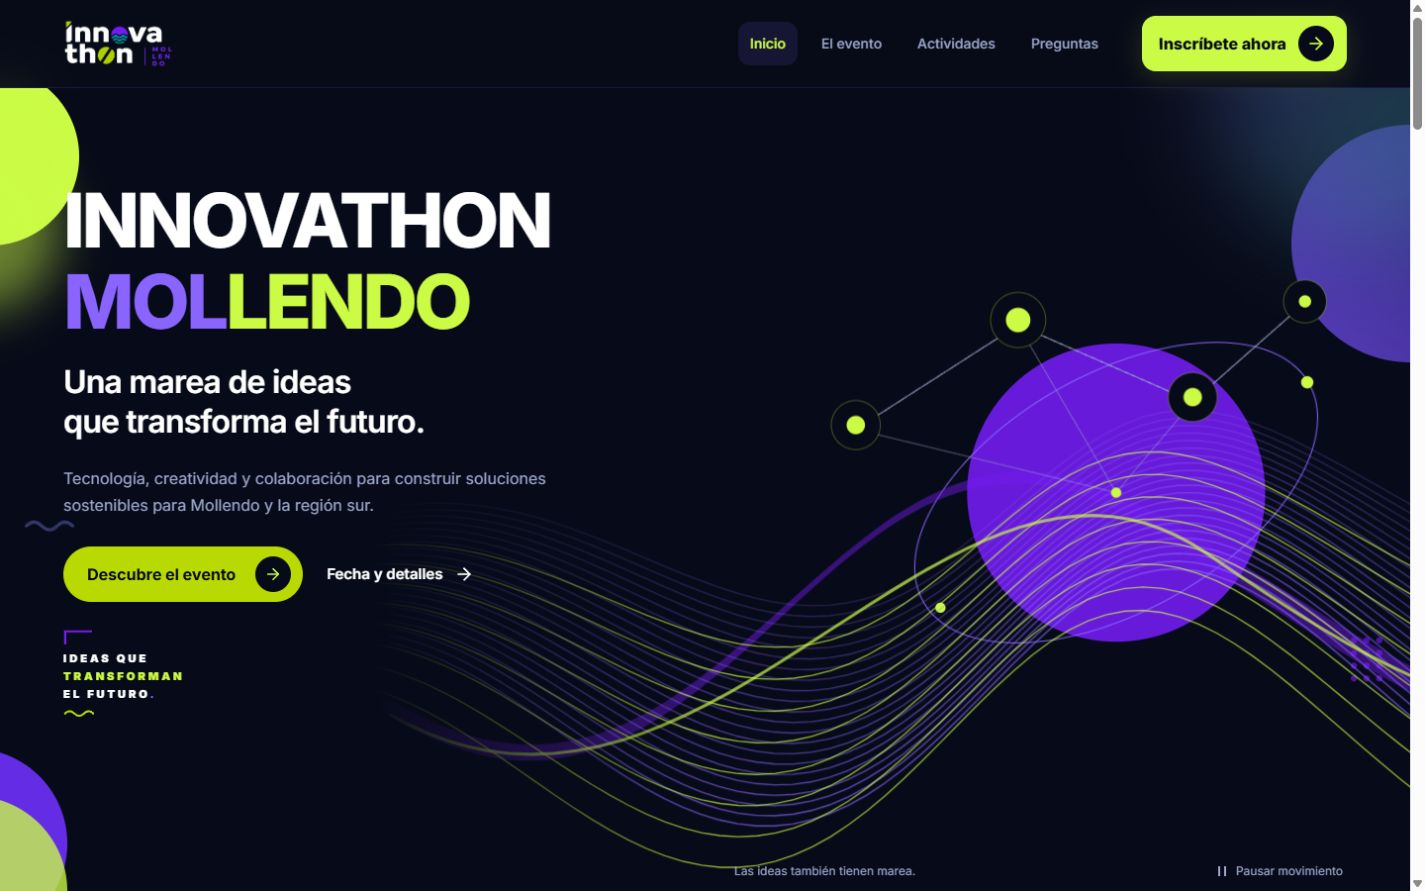
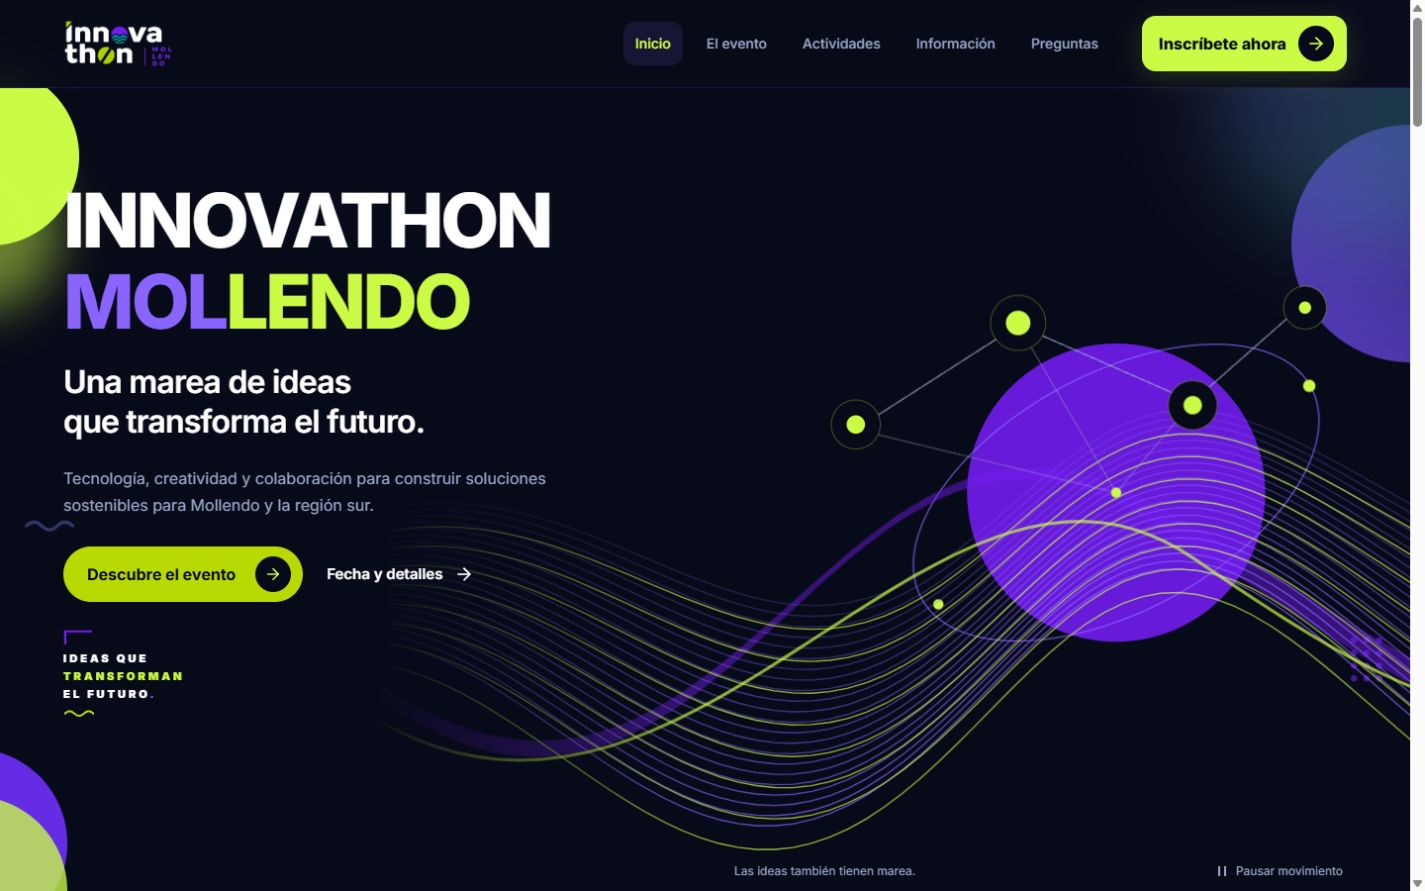
feat: add interactive Mollendo castle and information navigation

diff --git a/src/presentation/components/landing/CastleConstruction.jsx b/src/presentation/components/landing/CastleConstruction.jsx
@@ -1,0 +1,108 @@
+import { useEffect, useRef, useState } from 'react';
+import './castle-construction.css';
+
+const ART = `${import.meta.env.BASE_URL}assets/castillo-mollendo-construction.webp`;
+// Complementary masks follow the cliff, arcade, upper facade and tower.
+// Every pixel belongs to one piece, so the finished model has no seams.
+const PIECES = [
+  'polygon(0 64%, 43% 55%, 85% 57%, 100% 64%, 100% 100%, 0 100%)',
+  'polygon(0 43%, 43% 39%, 85% 40%, 100% 44%, 100% 64%, 85% 57%, 43% 55%, 0 64%)',
+  'polygon(0 30%, 36% 25%, 58% 25%, 100% 34%, 100% 44%, 85% 40%, 43% 39%, 0 43%)',
+  'polygon(0 0, 100% 0, 100% 34%, 58% 25%, 36% 25%, 0 30%)',
+];
+
+export function CastleConstruction() {
+  const rootRef = useRef(null);
+  const imageRef = useRef(null);
+  const replayRef = useRef(() => {});
+  const [building, setBuilding] = useState(false);
+  const [failed, setFailed] = useState(false);
+  const [expanded, setExpanded] = useState(false);
+  const [keyboard, setKeyboard] = useState(false);
+
+  useEffect(() => {
+    const root = rootRef.current;
+    const image = imageRef.current;
+    const reduced = window.matchMedia('(prefers-reduced-motion: reduce)');
+    const pieces = [...root.querySelectorAll('[data-castle-piece]')];
+    let animations = [];
+    let visible = false;
+    let started = false;
+    let loaded = image.complete && image.naturalWidth > 0;
+    let disposed = false;
+
+    const finish = () => {
+      animations.forEach((animation) => animation.cancel());
+      animations = [];
+      delete root.dataset.building;
+      if (!disposed) setBuilding(false);
+    };
+    const build = () => {
+      if (!loaded || animations.length || disposed) return;
+      started = true;
+      if (reduced.matches || !root.animate) return;
+      root.dataset.building = 'true';
+      setBuilding(true);
+      animations = pieces.map((piece, index) => piece.animate([
+        { opacity: 0, transform: `translate3d(0, ${index ? -32 : 24}px, 0)` },
+        { opacity: 1, transform: 'translate3d(0, 0, 0)' },
+      ], {
+        duration: 900,
+        delay: index * 650,
+        easing: 'cubic-bezier(.23, 1, .32, 1)',
+        fill: 'backwards',
+      }));
+      const current = animations;
+      Promise.allSettled(current.map((animation) => animation.finished)).then(() => {
+        if (!disposed && animations === current) finish();
+      });
+    };
+    const arrive = () => {
+      if (visible && loaded && !started && !document.hidden) build();
+    };
+    const onLoad = () => { loaded = true; arrive(); };
+    const onVisibility = () => {
+      animations.forEach((animation) => {
+        if (visible && !document.hidden) animation.play();
+        else animation.pause();
+      });
+      arrive();
+    };
+    const onPreference = () => { if (reduced.matches) finish(); };
+    const observer = 'IntersectionObserver' in window ? new IntersectionObserver(([entry]) => {
+      visible = entry.isIntersecting;
+      onVisibility();
+    }, { threshold: 0.35 }) : null;
+    replayRef.current = build;
+    image.addEventListener('load', onLoad);
+    document.addEventListener('visibilitychange', onVisibility);
+    reduced.addEventListener('change', onPreference);
+    observer?.observe(root);
+    return () => {
+      disposed = true;
+      finish();
+      observer?.disconnect();
+      image.removeEventListener('load', onLoad);
+      document.removeEventListener('visibilitychange', onVisibility);
+      reduced.removeEventListener('change', onPreference);
+      replayRef.current = () => {};
+    };
+  }, []);
+
+  return (
+    <figure className="castle-construction" ref={rootRef} data-failed={failed} data-expanded={expanded} data-keyboard={keyboard}>
+      <div className="castle-construction__stage">
+        <div className="castle-construction__model" onPointerEnter={() => setKeyboard(false)} role="img" aria-label="Ilustración interactiva del castillo de Mollendo, con fachada ocre, arcos, torre y acantilado. Sus capas se separan al pasar el cursor o activar el botón.">
+          {PIECES.map((clipPath, index) => <div key={clipPath} className={`castle-construction__layer castle-construction__layer--${index}`} aria-hidden="true"><div className="castle-construction__piece" data-castle-piece style={{ clipPath }}><img ref={index === 0 ? imageRef : undefined} src={ART} alt="" width="1254" height="1254" loading="lazy" decoding="async" onError={() => setFailed(true)} /></div></div>)}
+        </div>
+      </div>
+      <figcaption className="castle-construction__caption">
+        <p className="castle-construction__hint">Mollendo, pieza a pieza.<span>Pasa el cursor sobre el castillo.</span></p>
+        <div className="castle-construction__controls">
+          <button type="button" disabled={building || failed} aria-pressed={expanded} onClick={(event) => { setKeyboard(event.detail === 0); setExpanded((value) => !value); }} className="castle-toggle">{expanded ? 'Unir capas' : 'Separar capas'}</button>
+          <button type="button" disabled={building || failed} onClick={() => { setExpanded(false); replayRef.current(); }} className="castle-replay">{building ? 'Construyendo…' : 'Reconstruir'}<span aria-hidden="true">↻</span></button>
+        </div>
+      </figcaption>
+    </figure>
+  );
+}

diff --git a/src/presentation/components/landing/castle-construction.css b/src/presentation/components/landing/castle-construction.css
@@ -1,0 +1,44 @@
+.castle-construction { position: relative; width: 100%; max-width: 330px; margin: 16px auto 0; }
+.castle-construction__stage { padding-block: 44px 16px; }
+.castle-construction__model { position: relative; width: 100%; aspect-ratio: 1; }
+.castle-construction__layer, .castle-construction__piece { position: absolute; inset: 0; }
+.castle-construction__layer { transition: transform 400ms var(--landing-ease); }
+.castle-construction__piece img { display: block; width: 100%; height: 100%; object-fit: contain; }
+.castle-construction__caption { position: relative; text-align: center; font-size: .75rem; color: var(--landing-muted); }
+.castle-construction__hint { line-height: 1.5; }
+.castle-construction__hint span { display: none; margin-top: 4px; }
+.castle-construction__controls { display: flex; justify-content: center; align-items: center; flex-wrap: wrap; gap: 8px 16px; margin-top: 12px; }
+.castle-toggle, .castle-replay { display: inline-flex; align-items: center; justify-content: center; gap: 10px; min-height: 44px; padding: 8px 14px; color: var(--landing-lime); cursor: pointer; touch-action: manipulation; white-space: nowrap; }
+.castle-toggle { border: 1px solid var(--landing-line); border-radius: 12px; background: var(--landing-surface); transition: border-color 160ms var(--landing-ease); }
+.castle-toggle[aria-pressed="true"] { border-color: var(--landing-lime); }
+.castle-replay > span { font-size: 1.375rem; }
+.castle-toggle:disabled, .castle-replay:disabled { color: var(--landing-muted); cursor: default; }
+.castle-construction[data-failed="true"] .castle-construction__model { visibility: hidden; }
+.castle-construction[data-expanded="true"]:not([data-building]) .castle-construction__layer--0 { transform: translate3d(-3%, 5%, 0); }
+.castle-construction[data-expanded="true"]:not([data-building]) .castle-construction__layer--1 { transform: translate3d(-7%, -3%, 0); }
+.castle-construction[data-expanded="true"]:not([data-building]) .castle-construction__layer--2 { transform: translate3d(6%, -13%, 0); }
+.castle-construction[data-expanded="true"]:not([data-building]) .castle-construction__layer--3 { transform: translate3d(1%, -23%, 0); }
+.castle-construction[data-keyboard="true"] .castle-construction__layer { transition: none; }
+.landing-about__body { align-self: start; }
+@media (hover: hover) and (pointer: fine) {
+  .castle-construction__hint span { display: block; }
+  .castle-construction:not([data-building]):not([data-failed="true"]) .castle-construction__model:hover .castle-construction__layer--0 { transform: translate3d(-3%, 5%, 0); }
+  .castle-construction:not([data-building]):not([data-failed="true"]) .castle-construction__model:hover .castle-construction__layer--1 { transform: translate3d(-7%, -3%, 0); }
+  .castle-construction:not([data-building]):not([data-failed="true"]) .castle-construction__model:hover .castle-construction__layer--2 { transform: translate3d(6%, -13%, 0); }
+  .castle-construction:not([data-building]):not([data-failed="true"]) .castle-construction__model:hover .castle-construction__layer--3 { transform: translate3d(1%, -23%, 0); }
+  .castle-toggle:not(:disabled):hover { border-color: var(--landing-lime); }
+  .castle-replay:not(:disabled):hover { text-decoration: underline; text-underline-offset: 5px; }
+}
+@media (max-width: 899px) {
+  .castle-construction { max-width: 330px; }
+  .castle-construction__stage { padding-top: 64px; }
+}
+@media (max-width: 359px) {
+  .castle-construction__controls { gap: 8px; }
+  .castle-toggle, .castle-replay { padding-inline: 10px; }
+}
+@media (prefers-reduced-motion: reduce) {
+  .castle-replay { display: none; }
+  .castle-construction__layer { transition: none; }
+  .castle-construction__piece { opacity: 1; transform: none; }
+}

diff --git a/src/presentation/pages/HomePage.jsx b/src/presentation/pages/HomePage.jsx
@@ -6,6 +6,7 @@ import { useSeo } from '../hooks/useSeo';
 import { useLandingMotion } from '../hooks/useLandingMotion';
 import { RegistrationNavbar } from '../components/registration/RegistrationNavbar';
 import { TideScene } from '../components/landing/TideScene';
+import { CastleConstruction } from '../components/landing/CastleConstruction';
 import { EventFaq } from '../components/landing/EventFaq';
 import {
   SingleWave, ArrowRightIcon, CalendarIcon, MapPinIcon, CodeIcon,
@@ -70,7 +71,7 @@ export default function HomePage() {
         </section>
 
         <section id="evento" className="landing-section landing-container landing-about" aria-labelledby="about-title">
-          <div data-reveal><h2 id="about-title">¿Qué es<br />Innovathon Mollendo?</h2><SingleWave className="landing-about__wave" /></div>
+          <div className="landing-about__visual"><div data-reveal><h2 id="about-title">¿Qué es<br />Innovathon Mollendo?</h2><SingleWave className="landing-about__wave" /></div><CastleConstruction /></div>
           <div className="landing-about__body" data-reveal><p className="landing-lead">El futuro de nuestra ciudad también se construye desde aquí.</p><p>{LANDING.summary}</p><p>Conectamos distintas formas de pensar para abordar desafíos de nuestra comunidad. El mar, la historia portuaria y el talento local son el punto de partida.</p><div className="landing-about__signature"><span>Una ciudad.</span><span>Muchas perspectivas.</span><strong>Una marea de ideas.</strong></div></div>
         </section>
 

diff --git a/src/presentation/components/registration/RegistrationNavbar.jsx b/src/presentation/components/registration/RegistrationNavbar.jsx
@@ -7,7 +7,8 @@ import './event-navigation.css';
 
 const SECTIONS = [
   ['inicio', 'Inicio'], ['evento', 'El evento'],
-  ['actividades', 'Actividades'], ['preguntas', 'Preguntas'],
+  ['actividades', 'Actividades'], ['informacion', 'Información'],
+  ['preguntas', 'Preguntas'],
 ];
 
 export function RegistrationNavbar() {

diff --git a/docs/landing-informativa.md b/docs/landing-informativa.md
@@ -94,15 +94,17 @@ datos correspondientes de la página.
   botones con `aria-expanded`/`aria-controls` y paneles cerrados `inert` y ocultos
   para tecnologías de asistencia. Controles nuevos con altura mínima de 44 px.
 
-El navbar compartido incluye Inicio, El evento, Actividades y Preguntas, junto
+El navbar compartido incluye Inicio, El evento, Actividades, Información y Preguntas, junto
 al botón de inscripción. Reemplaza la barra secundaria de la landing. El menú móvil tiene
 botón de 44 px, nombre en español, estado expandido y Escape con retorno de foco.
 La altura medida del navbar establece el margen de los destinos por ancla.
-La cabecera se simplificó por solicitud del usuario: logo, cuatro enlaces y CTA
+La cabecera se simplificó por solicitud del usuario: logo, cinco enlaces y CTA
 en una sola fila en escritorio. Las demás secciones permanecen en el contenido.
 Inscripción destaca con un botón lima sólido de 56 px, «Inscríbete ahora», con
 flecha circular. En móvil, logo, botón compacto «Inscríbete» y menú también
 comparten una sola fila. La fecha sigue disponible en el Hero y en Información.
+«Información» abre `#informacion`, donde se muestran los datos esenciales,
+las bases y el reglamento, tanto desde Inicio como desde Inscripción.
 
 `RouteTransition.jsx` y `route-transition.css` conectan un layout con Outlet al
 data router de React Router. Los Link de cambio de ruta usan
@@ -130,6 +132,47 @@ prescripciones incompatibles de fonts, paletas, nuevo header, librerías GSAP o
 scroll controlado. No se simulan sorteos, mediciones ni validaciones.
 
 ## Verificaciones ejecutadas
+
+### Castillo interactivo en El evento
+
+La sección «¿Qué es Innovathon Mollendo?» incorpora, debajo de su título, una
+ilustración dimensional del castillo, generada a partir
+de la fotografía de referencia proporcionada por el usuario. Conserva su fachada
+ocre, arcadas, torre y base rocosa. Es una interpretación ilustrada de la
+referencia; no se presenta como fotografía ni modelo arquitectónico exacto.
+
+`CastleConstruction.jsx` ensambla cuatro máscaras complementarias de la misma
+imagen: acantilado, arcadas, fachada superior y torre. WAAPI anima únicamente
+opacidad y desplazamiento, durante 900 ms por pieza con intervalos de 650 ms;
+el conjunto termina en 2,85 segundos. Se inicia una vez al entrar en pantalla,
+después de cargar la imagen. El botón permite repetir la construcción.
+La construcción se pausa al salir de pantalla o al ocultar la pestaña.
+La preferencia de movimiento reducido
+muestra directamente el castillo completo. Se cancelan animaciones, observadores
+y listeners al desmontar; sin WAAPI/IntersectionObserver se conserva la imagen.
+
+El WebP transparente pesa aproximadamente 360 KB y se sirve desde `public/assets/`
+respetando `BASE_URL`, con carga diferida. Las capas comparten el mismo recurso
+en la caché del navegador. El Hero conserva su ilustración original de olas;
+el castillo no aparece en el Hero ni tiene un recuadro.
+
+Con cursor fino, pasar sobre el modelo separa sus cuatro capas con transiciones
+de transform de 400 ms; al salir se ensamblan de nuevo. La construcción inicial
+y la interacción usan contenedores diferentes para evitar competir por la misma
+transformación. Los controles «Separar capas»/«Unir capas» ofrecen la misma
+exploración en móvil y teclado, con `aria-pressed`. «Reconstruir» repite la entrada.
+Se reserva espacio para la torre elevada y la base desplazada. Teclado y movimiento
+reducido cambian el estado de las capas inmediatamente, sin transición.
+
+Verificación específica: lint y build pasan; inspección de la composición a
+320/768/1024/1440 px sin overflow horizontal, construcción y repetición observadas
+en navegador; hover de separación y retorno, estados del botón y teclado comprobados.
+Consola sin errores ni advertencias. Un harness del efecto
+real verifica duración, carga diferida, repetición, visibilidad, preferencia
+reducida y limpieza. No se modificó la preferencia del sistema operativo ni se
+realizó una prueba en dispositivo físico.
+
+### Landing y navegación
 
 - `npm run lint`: pasó.
 - `npm run build`: pasó (Vite); sin script de typecheck en este proyecto JavaScript.

diff --git a/README.md b/README.md
@@ -13,6 +13,13 @@ conectado a una hoja de cálculo en un Drive compartido.
 
 ![Hero de Innovathon Mollendo con navegación e ilustración animada](docs/images/hero.png)
 
+## Castillo interactivo
+
+En «El evento», el castillo se construye por etapas y sus capas se separan al
+pasar el cursor. También se puede explorar con los botones o el teclado.
+
+![Castillo de Mollendo con sus capas separadas en la sección del evento](docs/images/castillo-interactivo.jpg)
+
 ## Estructura
 
 Clean Architecture: las dependencias apuntan hacia el dominio y cada capa se puede
